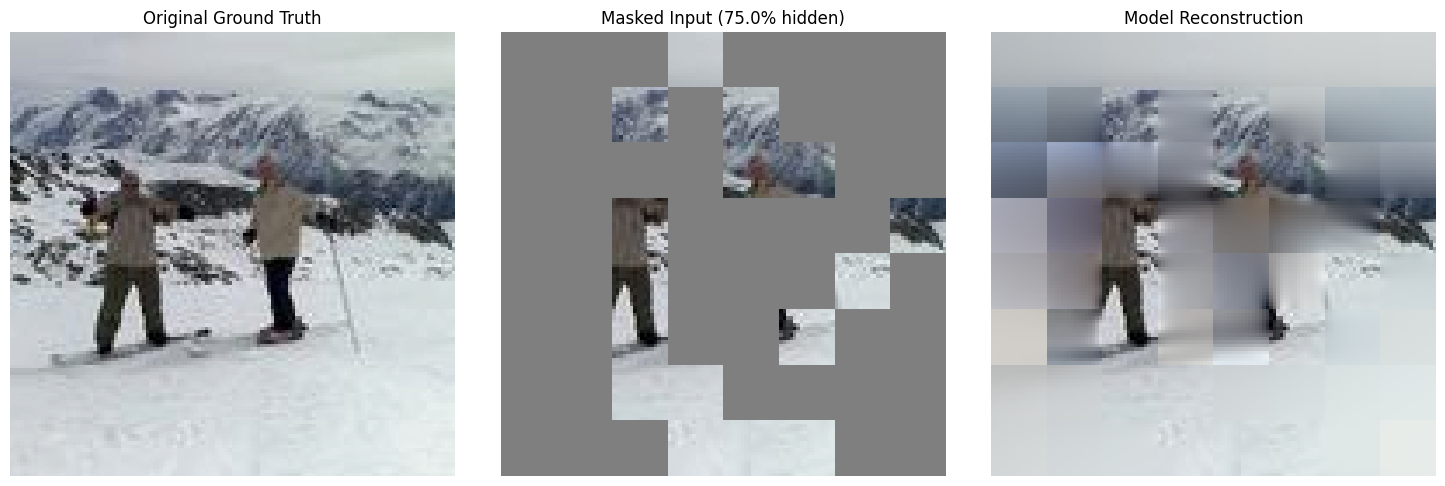
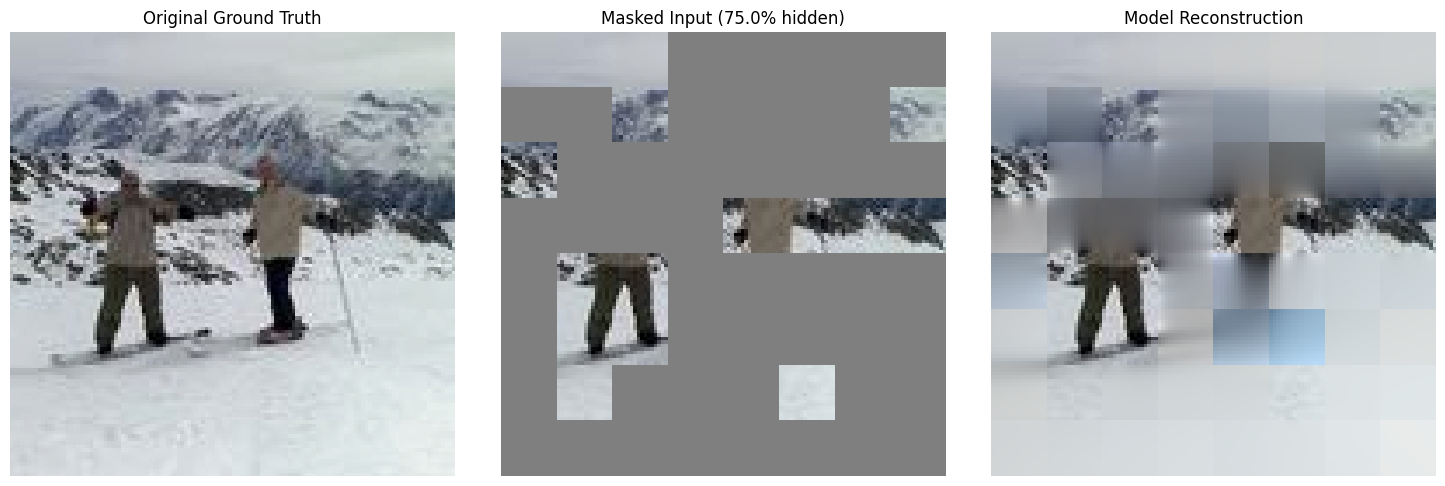
Update README

diff --git a/README.md b/README.md
@@ -11,7 +11,7 @@ We utilize a **Masked Autoencoder (MAE)** objective to force the model to unders
 
 **Strategic Innovation**: Unlike standard Layer-wise Learning Rate Decay (LLRD) which typically increases towards the head, we employ a **decreasing LLRD** during this stage. This prioritizes the optimization of early layers to capture fine-grained local textures.
 
-![MAE Reconstruction](logs/imagenet/ssl_teacher/visualizations/ssl_reconstruction_0.png)
+![MAE Reconstruction](logs/imagenet/ssl_teacher/visualizations/ssl_reconstruction_3.png)
 *Left: Original Image | Center: 75% Masked Input | Right: Model Reconstruction*
 
 ---
